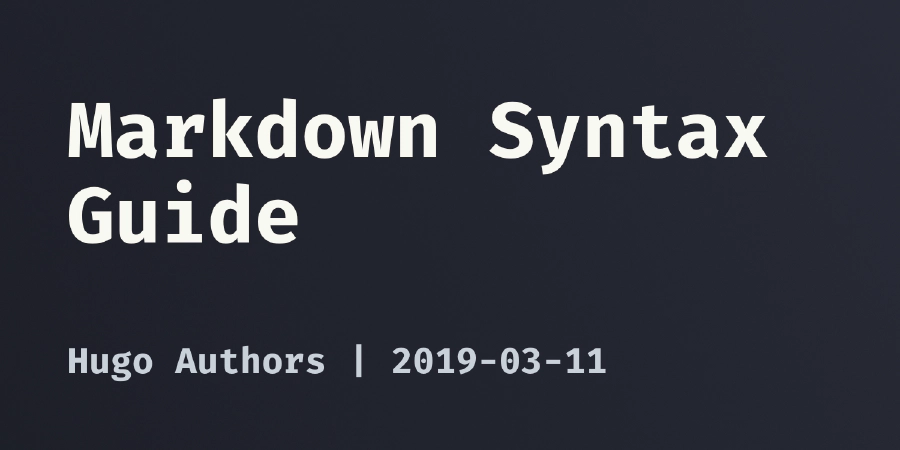
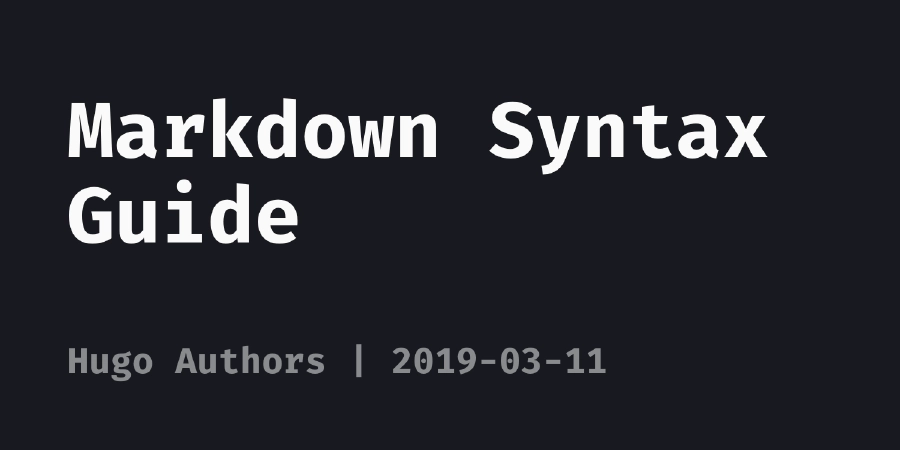
Choose between original and herman styles

diff --git a/layouts/_default/baseof.html b/layouts/_default/baseof.html
@@ -11,7 +11,7 @@
   {{- partial "seo_tags.html" . -}}
   <meta name="referrer" content="no-referrer-when-downgrade" />
 
-  {{ $style := resources.Get "style.css" | minify }}
+  {{ $style := print (default "original" .Site.Params.themeStyle) ".css" | resources.Get | minify }}
   <link href="{{ $style.RelPermalink }}" rel="stylesheet">
 
   {{ if (.Page.Store.Get "hasCodeBlock") }}

diff --git a/README.md b/README.md
@@ -125,6 +125,11 @@ already implemented:
   without inline styles (see `hugo.toml` for more information), it only load its
   `syntax.css` if, and only if, a code block is actually present in the current
   page.
+- Alternative "Herman" style (EXPERIMENTAL): if you want to check out a more
+  modern CSS style, you can change the `themeStyle` parameter to `"herman"` in
+  order to activate [Herman Martinus's](https://herman.bearblog.dev/) version of
+  the [Blogster Minimal](https://blogster-minimal.netlify.app/) theme for
+  [Astro](https://astro.build/).
 - Dynamic social card generation (EXPERIMENTAL): if you don't add preview images
   to a post, this template will generate one based on the title. You can see an
   example below.
@@ -202,6 +207,12 @@ enableRobotsTXT = true
   # will create a disabled link. By setting `hideUntranslated` to true, you can
   # have the theme simply not show any link
   hideUntranslated = false
+
+  # (EXPERIMENTAL) This theme has two options for its CSS styles: "original" and
+  # "herman". The former is what you see on Bear Cub's demo (an optimized
+  # version of Hugo Bear Blog), while the latter has a more modern look based on
+  # Herman Martinus's version of the Blogster Minimal theme for Astro.
+  themeStyle = "original"
 
   # (EXPERIMENTAL) This theme is capable of dynamically generating social cards
   # for posts that don't have `images` defined in their front matter; By setting
